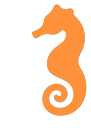
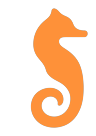
Turn the seahorse to face right in the menu bar
The tray mark faced left while every other icon up there faces right. New
silhouette, and the art files carry their English names.

The brand mark also lost half its padding when the file became brand.png: the
margin was chosen by looking for "marca" in the destination path.

Changed region(s): [[0.3077, 0.0312, 0.967, 0.9688]]

diff --git a/scripts/icons.py b/scripts/icons.py
@@ -21,44 +21,44 @@ import pathlib
 pathlib.Path('build').mkdir(exist_ok=True)
 pathlib.Path('public').mkdir(exist_ok=True)
 
-bruto = Image.open('assets/icone.png').convert('RGBA')
-bruto = bruto.crop(bruto.getbbox())
-MESTRE = 1024
-corpo = bruto.resize((MESTRE, MESTRE), Image.LANCZOS)
+raw = Image.open('assets/icon.png').convert('RGBA')
+raw = raw.crop(raw.getbbox())
+MASTER = 1024
+body = raw.resize((MASTER, MASTER), Image.LANCZOS)
 
 # The background colour comes from the art itself, at a point inside the shape
 # and away from the drawing — so the fill is the same black, wherever the art
 # came from.
-fundo = corpo.convert('RGB').getpixel((int(MESTRE * 0.06), int(MESTRE * 0.5)))
-quadro = Image.new('RGBA', (MESTRE, MESTRE), (*fundo, 255))
-quadro.alpha_composite(corpo)
-quadro.save('build/icone-1024.png')
+background = body.convert('RGB').getpixel((int(MASTER * 0.06), int(MASTER * 0.5)))
+frame = Image.new('RGBA', (MASTER, MASTER), (*background, 255))
+frame.alpha_composite(body)
+frame.save('build/icon-1024.png')
 
-sil = Image.open('assets/silhueta.png').convert('RGBA')
+sil = Image.open('assets/silhouette.png').convert('RGBA')
 sil = sil.crop(sil.getbbox())
 
-for escala in (1, 2):
-    lado = 22 * escala
-    interno = int(lado * 0.88)
-    prop = sil.size[0] / sil.size[1]
-    lg, at = (max(1, round(interno * prop)), interno) if prop < 1 else (interno, max(1, round(interno / prop)))
-    peca = sil.resize((lg, at), Image.LANCZOS)
-    preto = Image.new('RGBA', (lg, at), (0, 0, 0, 255))
-    preto.putalpha(peca.split()[3])
-    caixa = Image.new('RGBA', (lado, lado), (0, 0, 0, 0))
-    caixa.paste(preto, ((lado - lg) // 2, (lado - at) // 2), preto)
-    caixa.save(f'public/trayTemplate{"@2x" if escala == 2 else ""}.png')
+for scale in (1, 2):
+    side = 22 * scale
+    inner = int(side * 0.88)
+    ratio = sil.size[0] / sil.size[1]
+    w, h = (max(1, round(inner * ratio)), inner) if ratio < 1 else (inner, max(1, round(inner / ratio)))
+    piece = sil.resize((w, h), Image.LANCZOS)
+    black = Image.new('RGBA', (w, h), (0, 0, 0, 255))
+    black.putalpha(piece.split()[3])
+    box = Image.new('RGBA', (side, side), (0, 0, 0, 0))
+    box.paste(black, ((side - w) // 2, (side - h) // 2), black)
+    box.save(f'public/trayTemplate{"@2x" if scale == 2 else ""}.png')
 
-for destino, altura, cor in [('public/favicon.png', 56, (255, 150, 60, 255)),
-                             ('public/brand.png', 120, (255, 145, 55, 255))]:
-    prop = sil.size[0] / sil.size[1]
-    lg = max(1, round(altura * prop))
-    peca = sil.resize((lg, altura), Image.LANCZOS)
-    tinta = Image.new('RGBA', (lg, altura), cor)
-    tinta.putalpha(peca.split()[3])
-    folga = 8 if 'marca' in destino else 4
-    fundo = Image.new('RGBA', (lg + folga * 2, altura + folga * 2), (0, 0, 0, 0))
-    fundo.paste(tinta, (folga, folga), tinta)
-    fundo.save(destino)
+for target, height, colour in [('public/favicon.png', 56, (255, 150, 60, 255)),
+                               ('public/brand.png', 120, (255, 145, 55, 255))]:
+    ratio = sil.size[0] / sil.size[1]
+    w = max(1, round(height * ratio))
+    piece = sil.resize((w, height), Image.LANCZOS)
+    ink = Image.new('RGBA', (w, height), colour)
+    ink.putalpha(piece.split()[3])
+    margin = 8 if 'brand' in target else 4
+    sheet = Image.new('RGBA', (w + margin * 2, height + margin * 2), (0, 0, 0, 0))
+    sheet.paste(ink, (margin, margin), ink)
+    sheet.save(target)
 
-print('arte preparada')
+print('art ready')
